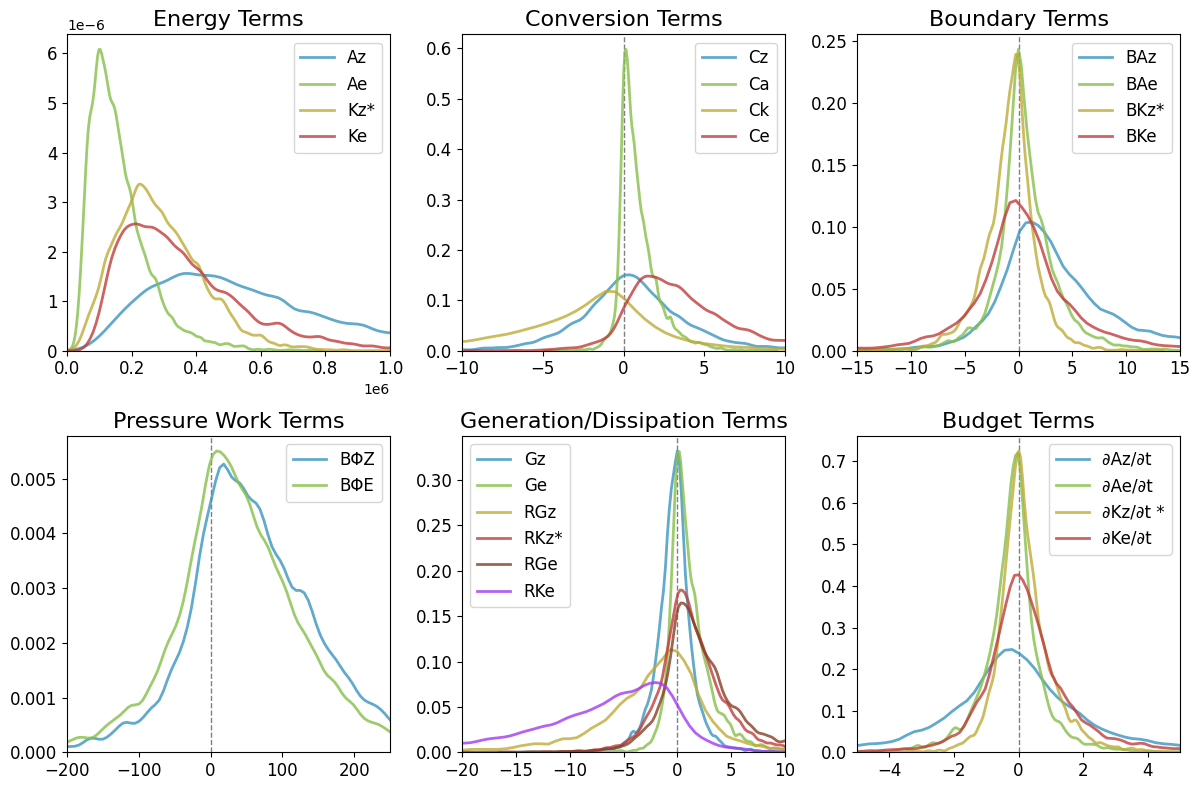
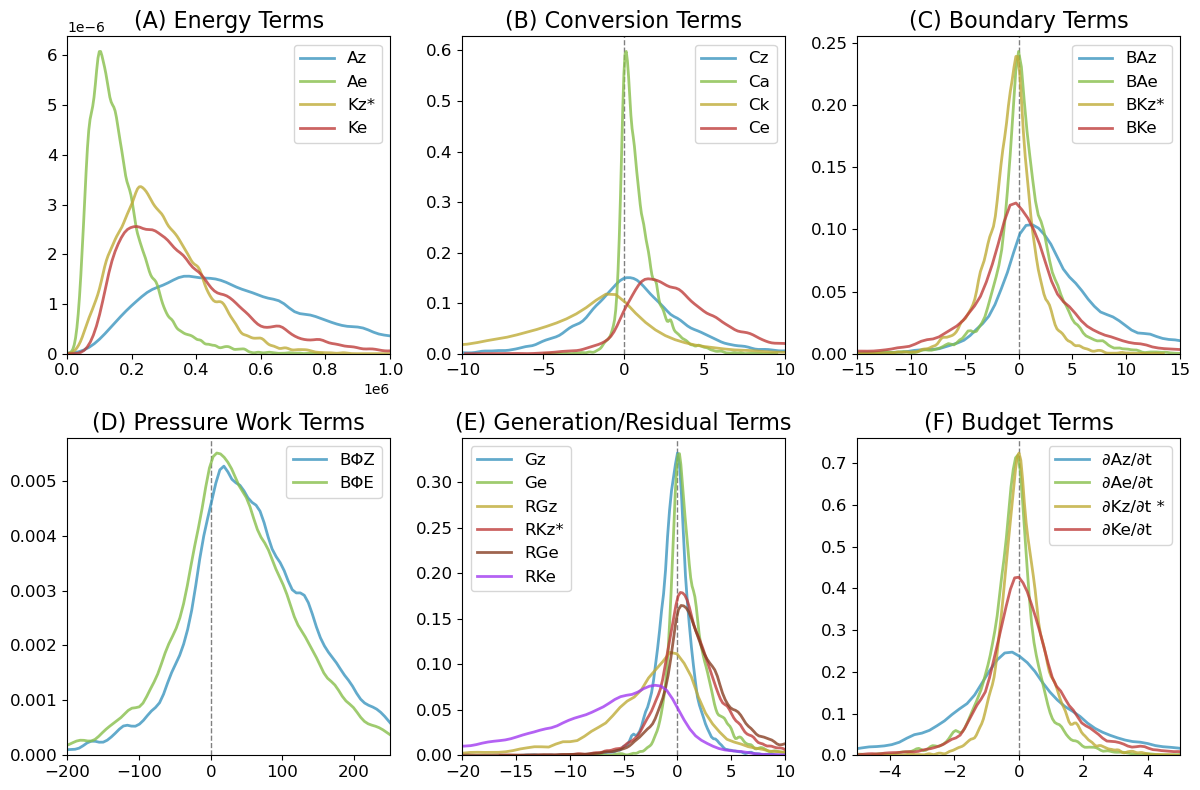
Fixed labels

diff --git a/manuscript_lec_climatology/pdfs.py b/manuscript_lec_climatology/pdfs.py
@@ -6,7 +6,7 @@
 #    By: daniloceano <danilo.oceano@gmail.com>      +#+  +:+       +#+         #
 #                                                 +#+#+#+#+#+   +#+            #
 #    Created: 2024/02/29 14:56:47 by daniloceano       #+#    #+#              #
-#    Updated: 2024/09/23 15:21:32 by daniloceano      ###   ########.fr        #
+#    Updated: 2024/09/24 10:49:12 by daniloceano      ###   ########.fr        #
 #                                                                              #
 # **************************************************************************** #
 
@@ -59,7 +59,7 @@ LEGEND_POSITION = {
     'Conversion Terms': 'upper right',
     'Boundary Terms': 'upper right',
     'Pressure Work Terms': 'upper right',
-    'Generation/Dissipation Terms': 'best',
+    'Generation/Residual Terms': 'best',
     'Budget Terms': 'best'
 }
 
@@ -69,9 +69,11 @@ AXIS_LIMITS = {
     'Conversion Terms': (-10, 10),
     'Boundary Terms': (-15, 15),
     'Pressure Work Terms': (-200, 250),
-    'Generation/Dissipation Terms': (-20, 10),
+    'Generation/Residual Terms': (-20, 10),
     'Budget Terms': (-5, 5)
 }
+
+LABELS = ['A', 'B', 'C', 'D', 'E', 'F', 'G', 'H']
 
 # Global variables for font sizes
 LABEL_FONT_SIZE = 14
@@ -193,7 +195,7 @@ def plot_group_panel(systems_energetics, groups, output_directory):
         legend_position = LEGEND_POSITION.get(group_name, 'best')  # Use 'best' if no position is defined
         ax.legend(fontsize=LEGEND_FONT_SIZE, loc=legend_position)
 
-        ax.set_title(f'{group_name}', fontsize=TITLE_FONT_SIZE)
+        ax.set_title(f'({LABELS[idx]}) {group_name}', fontsize=TITLE_FONT_SIZE)
         ax.tick_params(axis='both', which='major', labelsize=TICK_FONT_SIZE)
         ax.set_xlabel('', fontsize=LABEL_FONT_SIZE)
         ax.set_ylabel('', fontsize=LABEL_FONT_SIZE)
@@ -216,7 +218,7 @@ if __name__ == "__main__":
         'Conversion Terms': ['C'],
         'Boundary Terms': ['BA', 'BK'],
         'Pressure Work Terms': ['BΦ'],
-        'Generation/Dissipation Terms': ['G', 'R'],
+        'Generation/Residual Terms': ['G', 'R'],
         'Budget Terms': ['∂']
     }
 
